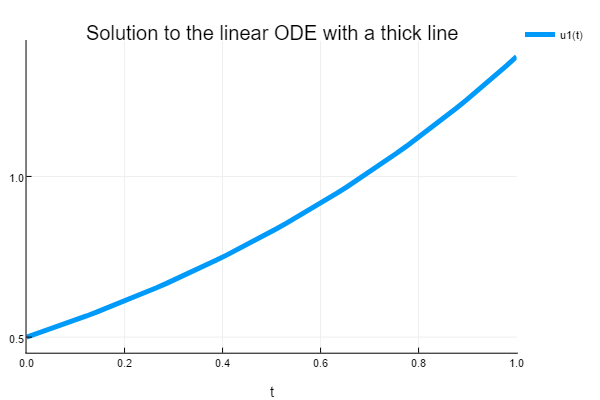
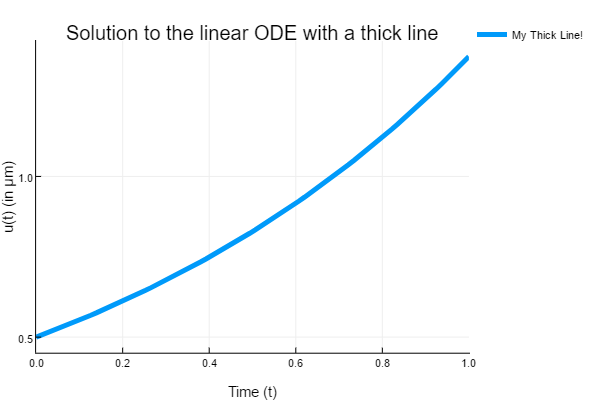
update basic docs

diff --git a/docs/src/tutorials/ode_example.md b/docs/src/tutorials/ode_example.md
@@ -108,33 +108,13 @@ available). For example, we can choose a 7th order Verner Efficient method:
 sol = solve(prob,Vern7())
 ```
 
-For users familiar with MATLAB/Python/R, good translations of the standard library
-methods are as follows:
-
-- `ode23` --> `BS3()`
-- `ode45`/`dopri5` --> `DP5()`, though in most cases `Tsit5()` is more efficient
-- `ode23s` --> `Rosenbrock23()`
-- `ode113` --> `CVODE_Adams()`, though in many cases `Vern7()` is more efficient
-- `dop853` --> `DP8()`, though in most cases `Vern7()` is more efficient
-- `ode15s`/`vode` --> `CVODE_BDF()`, though in many cases `radau()` is more efficient
-- `ode23t` --> `Trapezoid()`
-- `lsoda` --> `lsoda()` (requires `Pkg.add("LSODA"); using LSODA`)
-- `ode15i` --> `IDA()`
-
 In DifferentialEquations.jl, some good "go-to" choices for ODEs are:
 
 - `BS3()` for fast low accuracy non-stiff
 - `Tsit5()` for non-stiff
 - `Vern7()` for high accuracy non-stiff
 - `Rosenbrock23()` for stiff equations with Julia-defined types, events, etc.
-- `CVODE_BDF()` or `radau()` for stiff equations of `Vector{Float64}`
-
-Note that `radau()` requires the installation of `ODEInterfaceDiffEq`:
-
-```julia
-Pkg.add("ODEInterfaceDiffEq")
-using ODEInterfaceDiffEq
-```
+- `CVODE_BDF()` for stiff equations on `Vector{Float64}`
 
 This solve interface, known as the common interface, is actually pooling together
 the methods from many different packages into a single API. For a comprehensive
@@ -168,8 +148,7 @@ sol[5] #.637
 or get the time of the 8th timestep by:
 
 ```julia
-sol.t[8]
-#.438
+sol.t[8] #.438
 ```
 
 Convenience features are also included. We can build an array using a
@@ -193,6 +172,9 @@ interpolated values by treating `sol` as a function, for example:
 sol(0.45) # The value of the solution at t=0.45
 ```
 
+Note the difference between these. Indexing with `[i]` is the value at the `i`th
+step, while `(t)` is an interpolation at time `t`!
+
 If in the solver `dense=true` (this is the default unless `saveat` is used), then
 this interpolation is a high order interpolation and thus usually matches the
 error of the solution time points. The interpolations associated with each solver
@@ -211,7 +193,7 @@ object, simply call plot:
 ```julia
 #Pkg.add("Plots") # You need to install Plots.jl before your first time using it!
 using Plots
-#gr() # You can optionally choose a plotting backend
+#plotly() # You can optionally choose a plotting backend
 plot(sol)
 ```
 
@@ -229,10 +211,13 @@ Additional DiffEq-specific controls are documented [at the plotting page](../bas
 
 For example, from the Plots.jl attribute page we see that the line width can be
 set via the argument `linewidth`. Additionally, a title can be set with `title`.
-Thus we add these to our plot command to get the correct output:
+Thus we add these to our plot command to get the correct output, fix up some
+axis labels, and change the legend (note we can disable the legend with
+`legend=false`) to get a nice looking plot:
 
 ```julia
-plot(sol,linewidth=5,title="Solution to the linear ODE with a thick line")
+plot(sol,linewidth=5,title="Solution to the linear ODE with a thick line",
+     xaxis="Time (t)",yaxis="u(t) (in μm)",label="My Thick Line!") # legend=false
 ```
 
 ![ode_tutorial_thick_linear](../assets/ode_tutorial_thick_linear.png)

diff --git a/docs/src/solvers/ode_solve.md b/docs/src/solvers/ode_solve.md
@@ -40,6 +40,21 @@ However, for the most efficient highly stiff solvers, use `radau` or `CVODE_BDF`
 to the ODEInterface and Sundials packages respectively ([see the conditional dependencies documentation](http://juliadiffeq.github.io/DifferentialEquations.jl/latest/man/conditional_dependencies.html)).
 These algorithms require that the number types are Float64.
 
+## Translations from MATLAB/Python/R
+
+For users familiar with MATLAB/Python/R, good translations of the standard
+library methods are as follows:
+
+- `ode23` --> `BS3()`
+- `ode45`/`dopri5` --> `DP5()`, though in most cases `Tsit5()` is more efficient
+- `ode23s` --> `Rosenbrock23()`
+- `ode113` --> `CVODE_Adams()`, though in many cases `Vern7()` is more efficient
+- `dop853` --> `DP8()`, though in most cases `Vern7()` is more efficient
+- `ode15s`/`vode` --> `CVODE_BDF()`, though in many cases `radau()` is more efficient
+- `ode23t` --> `Trapezoid()`
+- `lsoda` --> `lsoda()` (requires `Pkg.add("LSODA"); using LSODA`)
+- `ode15i` --> `IDA()`
+
 ## Full List of Methods
 
 Choose one of these methods with the `alg` keyword in `solve`.

diff --git a/docs/src/index.md b/docs/src/index.md
@@ -46,7 +46,7 @@ software as part of your research, teaching, or other activities, we would
 be grateful if you could cite our work.
 [Please see our citation page for guidelines](http://juliadiffeq.org/citing.html).
 
-## Using the Package
+## Getting Started: Installation And First Steps
 
 To install the package, use the following command inside the Julia REPL:
 ```julia
